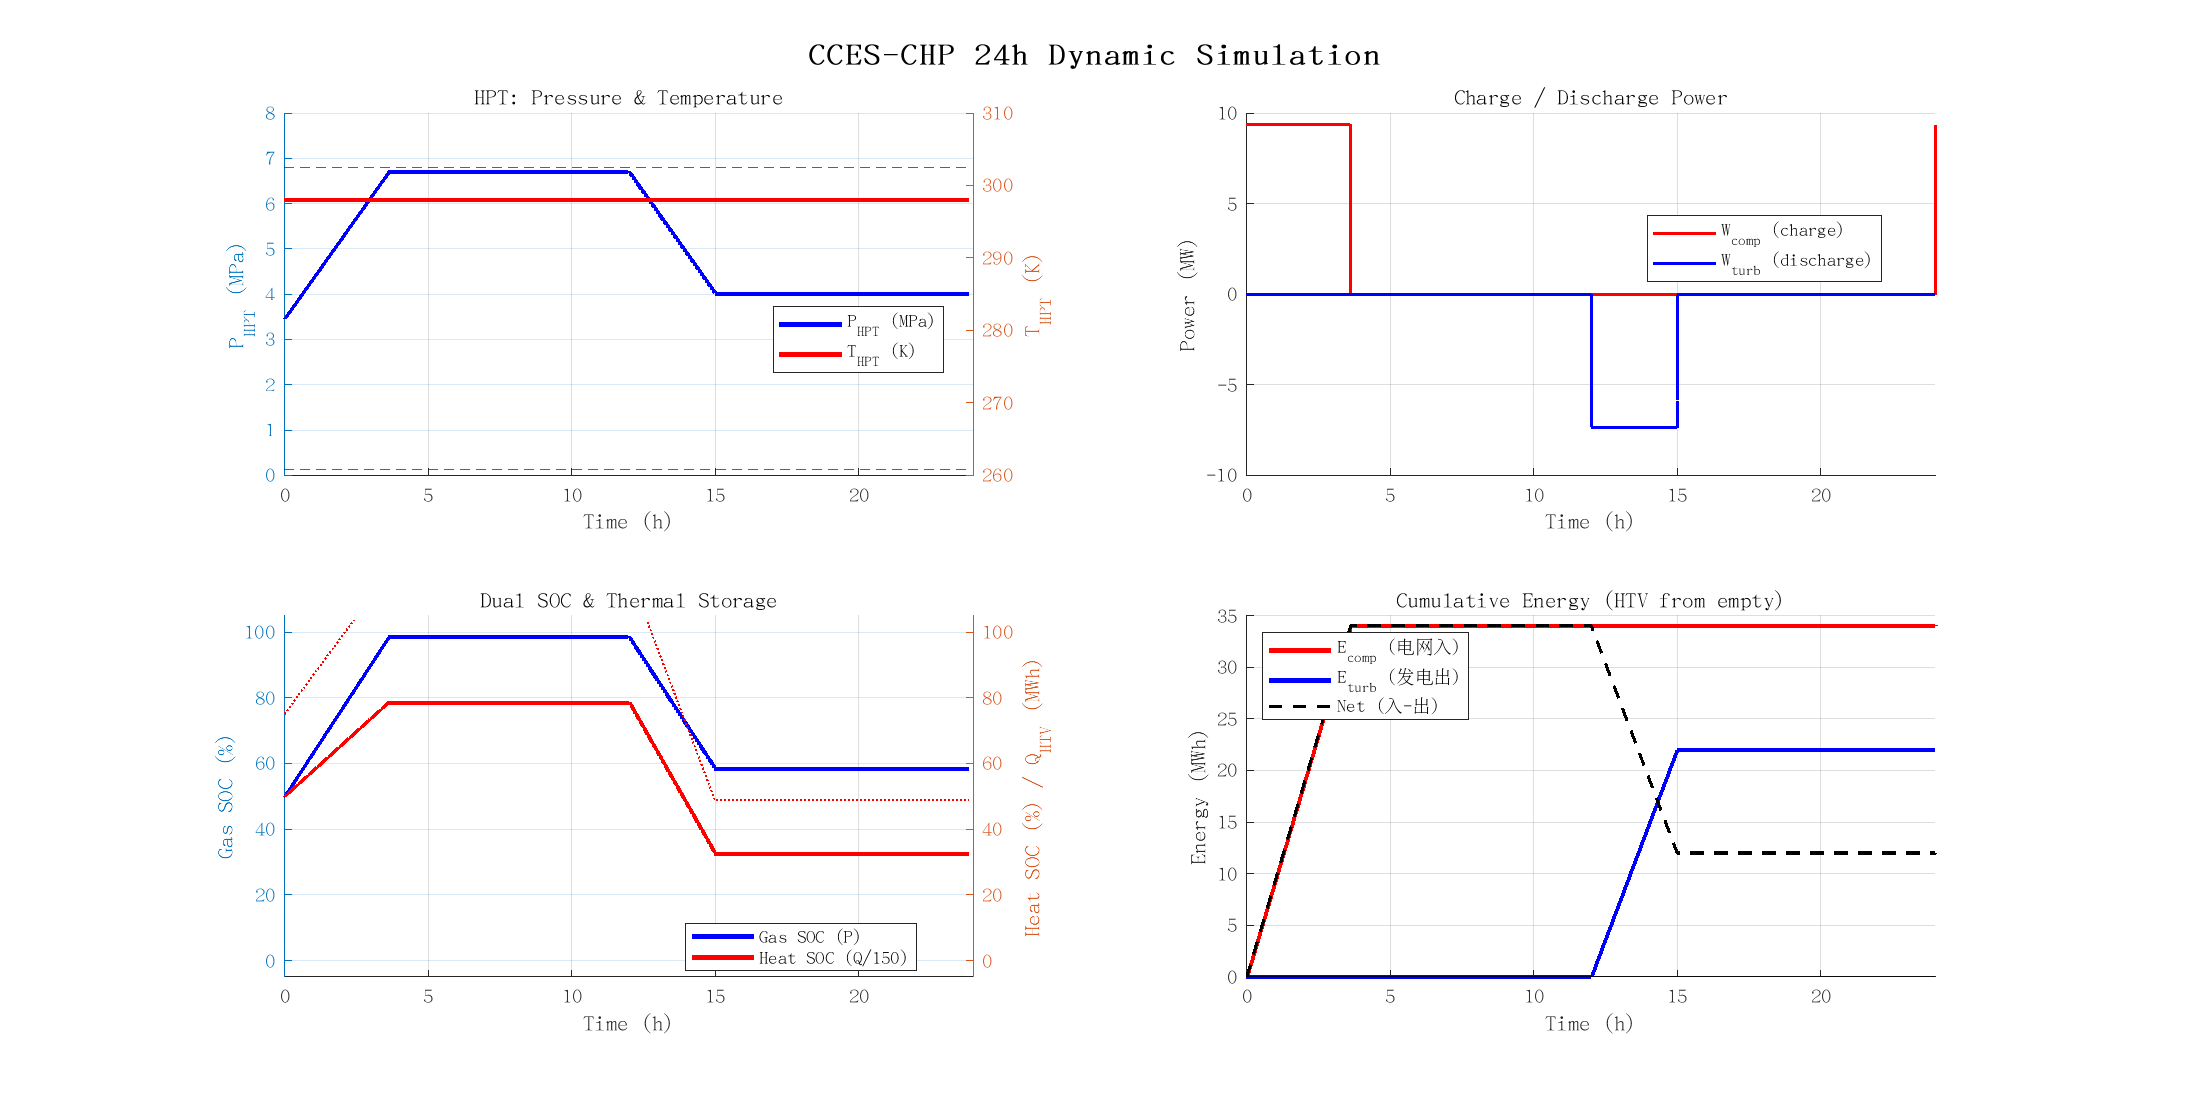
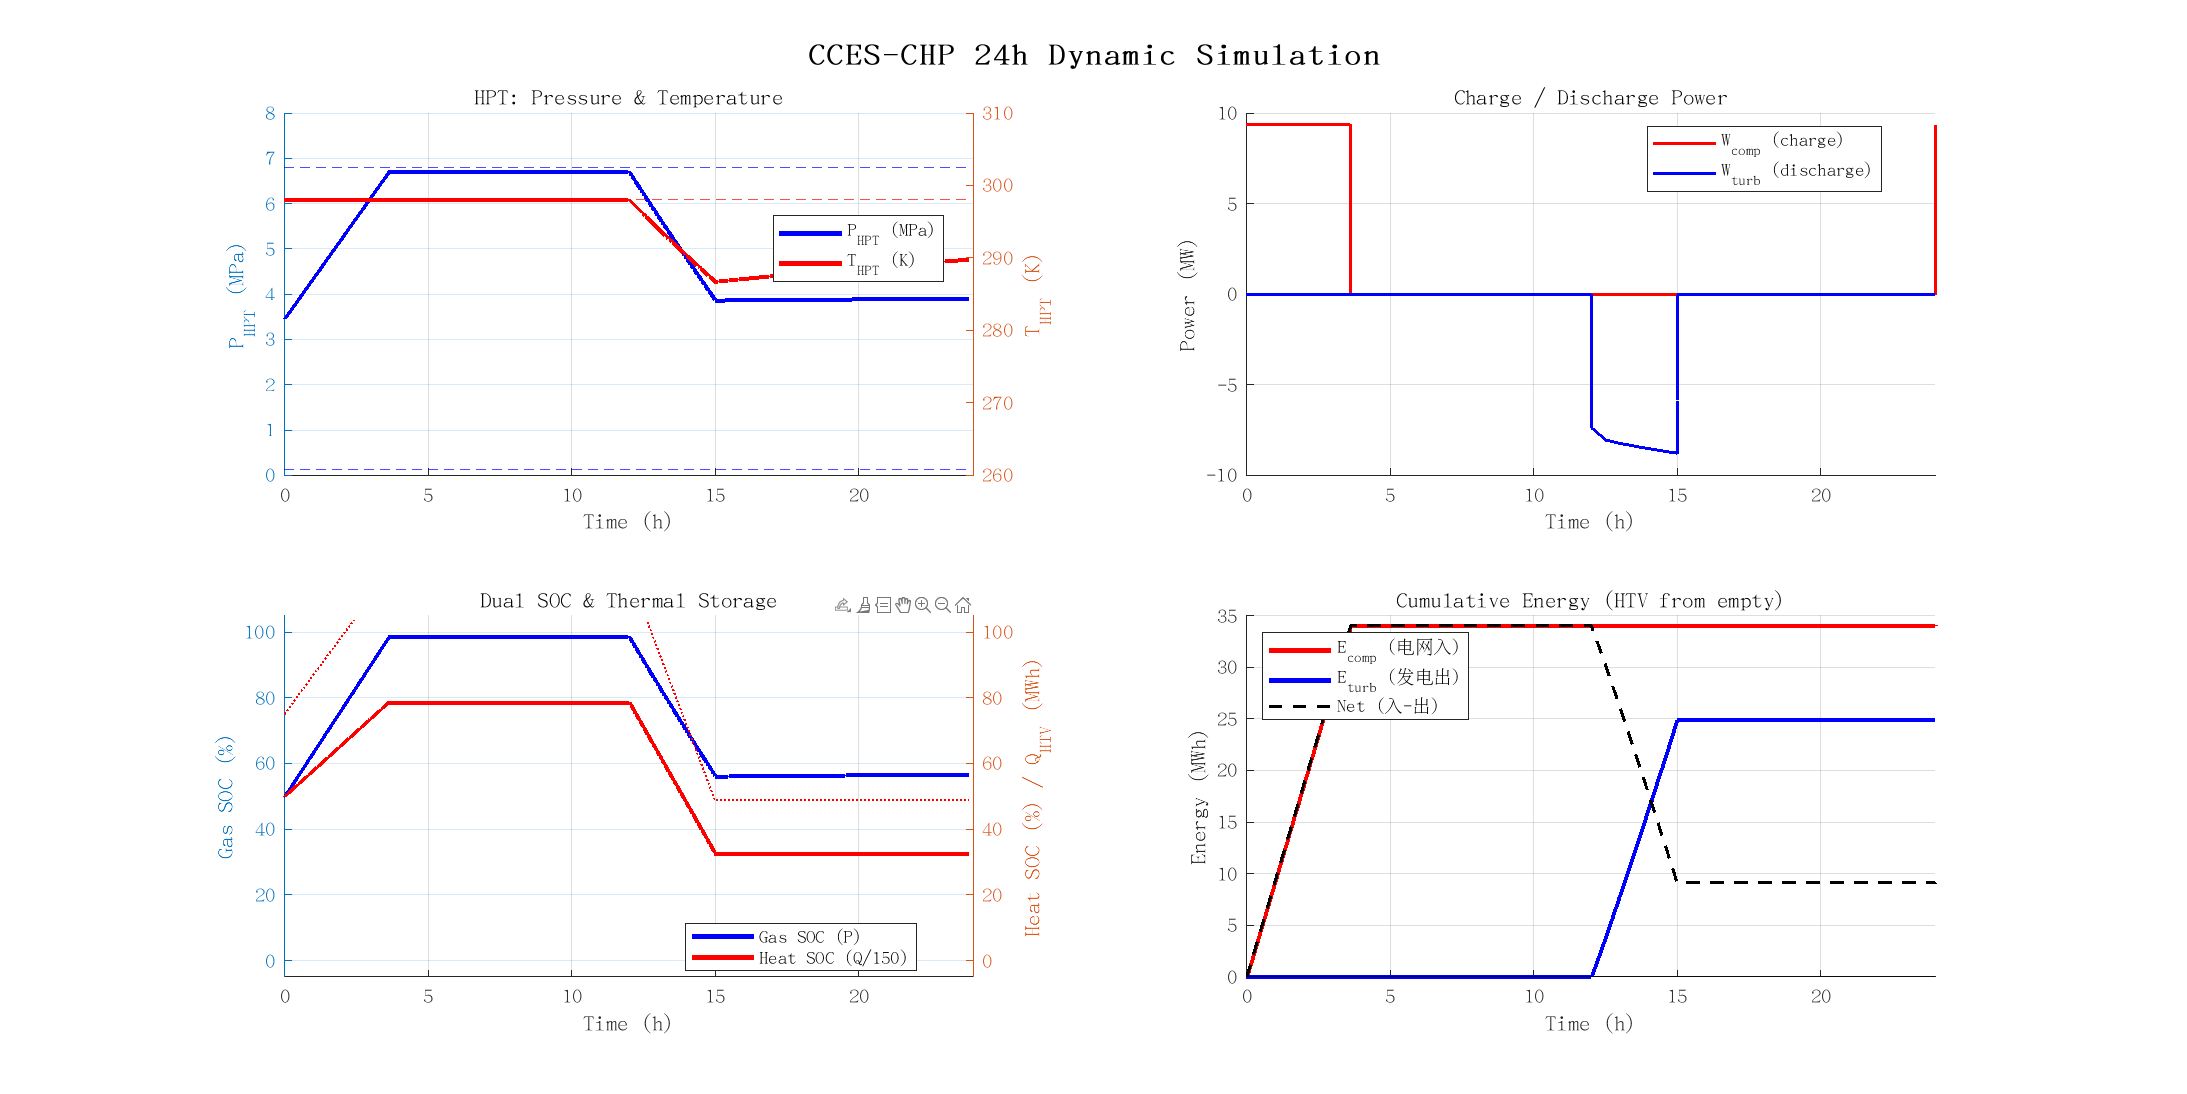
fix: remove negation of turbine power in plot (Wt now positive)
Turbine output already uses abs() in W_calc, so Wt is positive.
Previous plot used -Wt making discharge appear negative in scope.

diff --git a/CCES_CHP_Simulink/src/plot_simulation.m b/CCES_CHP_Simulink/src/plot_simulation.m
@@ -59,7 +59,7 @@ xlim([0 24]);
 ax2 = subplot(2,2,2);
 hold on; grid on;
 stairs(t, Wc, 'r', 'LineWidth', 1.5);
-stairs(t, -Wt, 'b', 'LineWidth', 1.5);
+stairs(t, Wt, 'b', 'LineWidth', 1.5);
 xlabel('Time (h)'); ylabel('Power (MW)');
 title('Charge / Discharge Power');
 legend('W_{comp} (charge)', 'W_{turb} (discharge)', 'Location', 'best');
